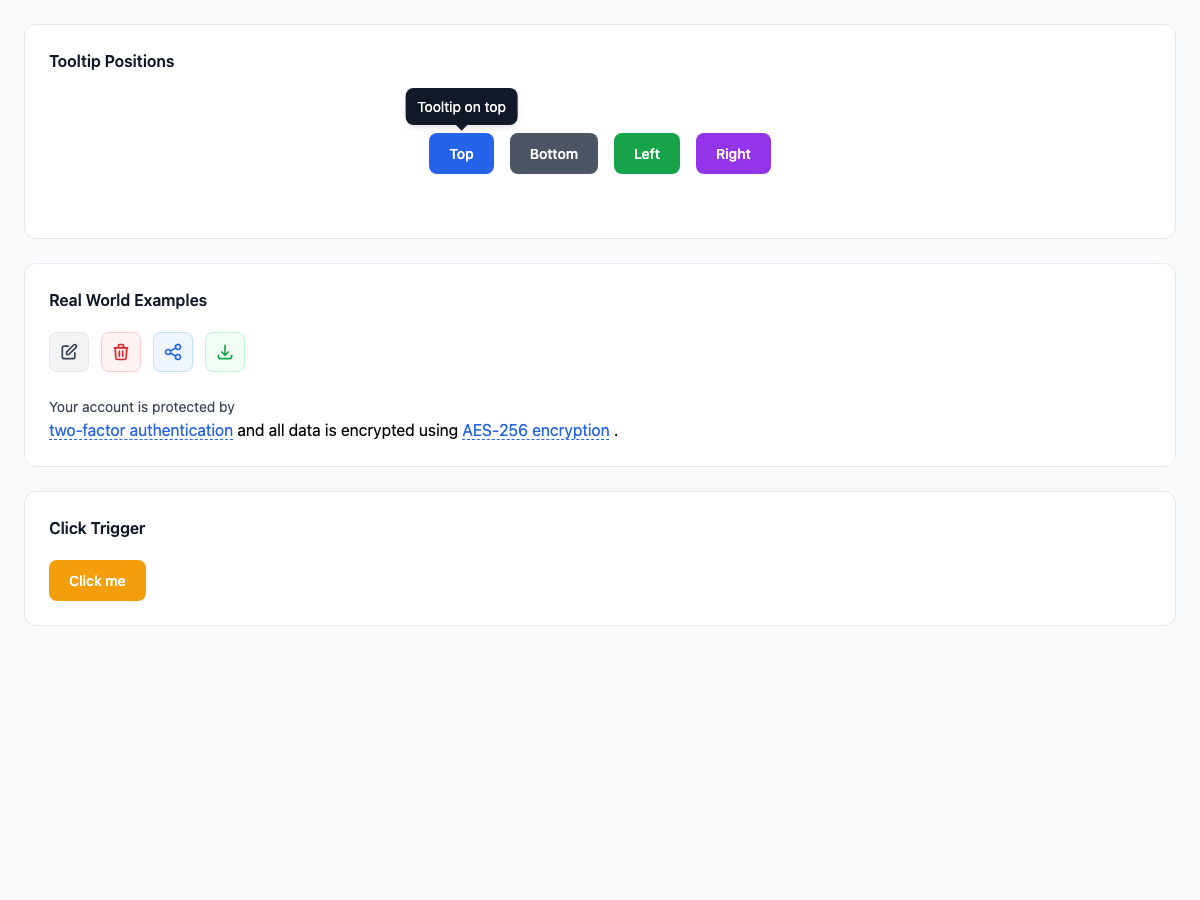
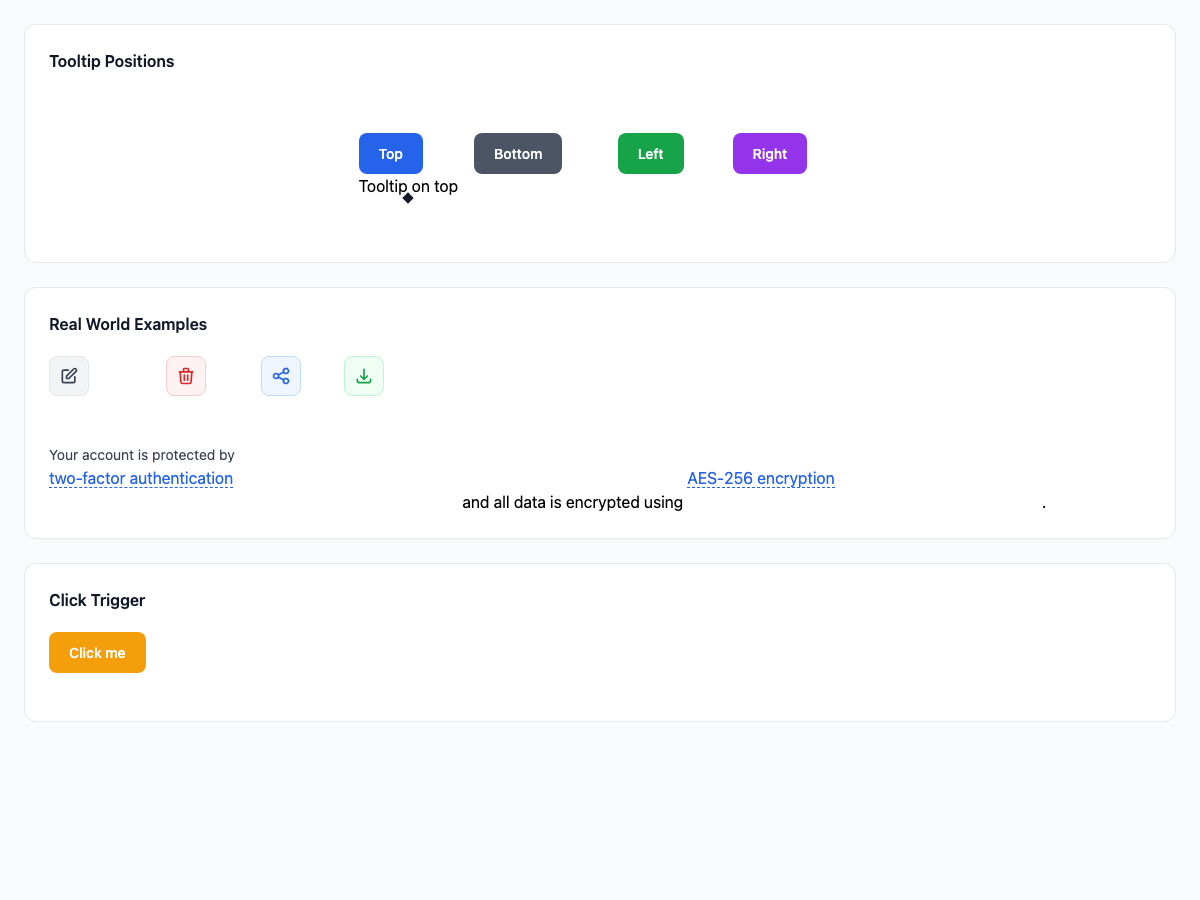
Fix tooltip position jumping by using visibility instead of display
Using visibility:hidden/opacity:0 with CSS transitions instead of
x-show with display:none. This keeps the element in layout flow so
positioning is calculated correctly before the tooltip becomes visible.

🤖 Generated with [Claude Code](https://claude.com/claude-code)

diff --git a/resources/views/components/tooltip.blade.php b/resources/views/components/tooltip.blade.php
@@ -28,9 +28,8 @@ $arrowStyle = $arrowPositions[$position] ?? $arrowPositions['top'];
     {{ $slot }}
 
     <div
-        x-show="show"
-        x-transition.opacity.duration.150ms
-        style="display: none; position: absolute; z-index: 50; padding: 8px 12px; font-size: 14px; color: white; background: #111827; border-radius: 8px; box-shadow: 0 4px 6px -1px rgba(0,0,0,0.1); white-space: nowrap; {{ $posStyle }}"
+        x-bind:style="show ? 'visibility: visible; opacity: 1;' : 'visibility: hidden; opacity: 0;'"
+        style="position: absolute; z-index: 50; padding: 8px 12px; font-size: 14px; color: white; background: #111827; border-radius: 8px; box-shadow: 0 4px 6px -1px rgba(0,0,0,0.1); white-space: nowrap; visibility: hidden; opacity: 0; transition: opacity 150ms ease, visibility 150ms ease; {{ $posStyle }}"
     >
         {{ $content }}
         <div style="position: absolute; width: 8px; height: 8px; background: #111827; {{ $arrowStyle }}"></div>
